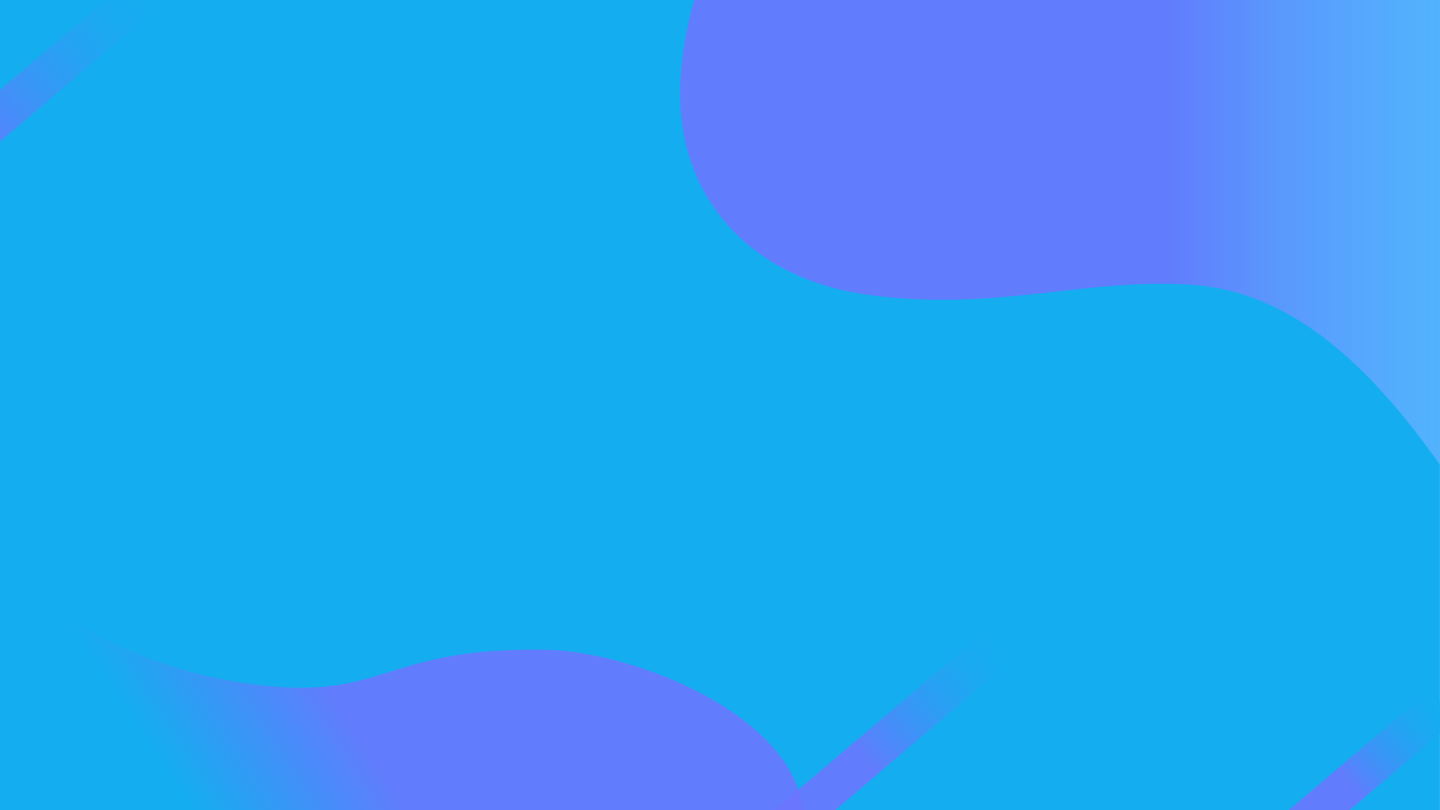
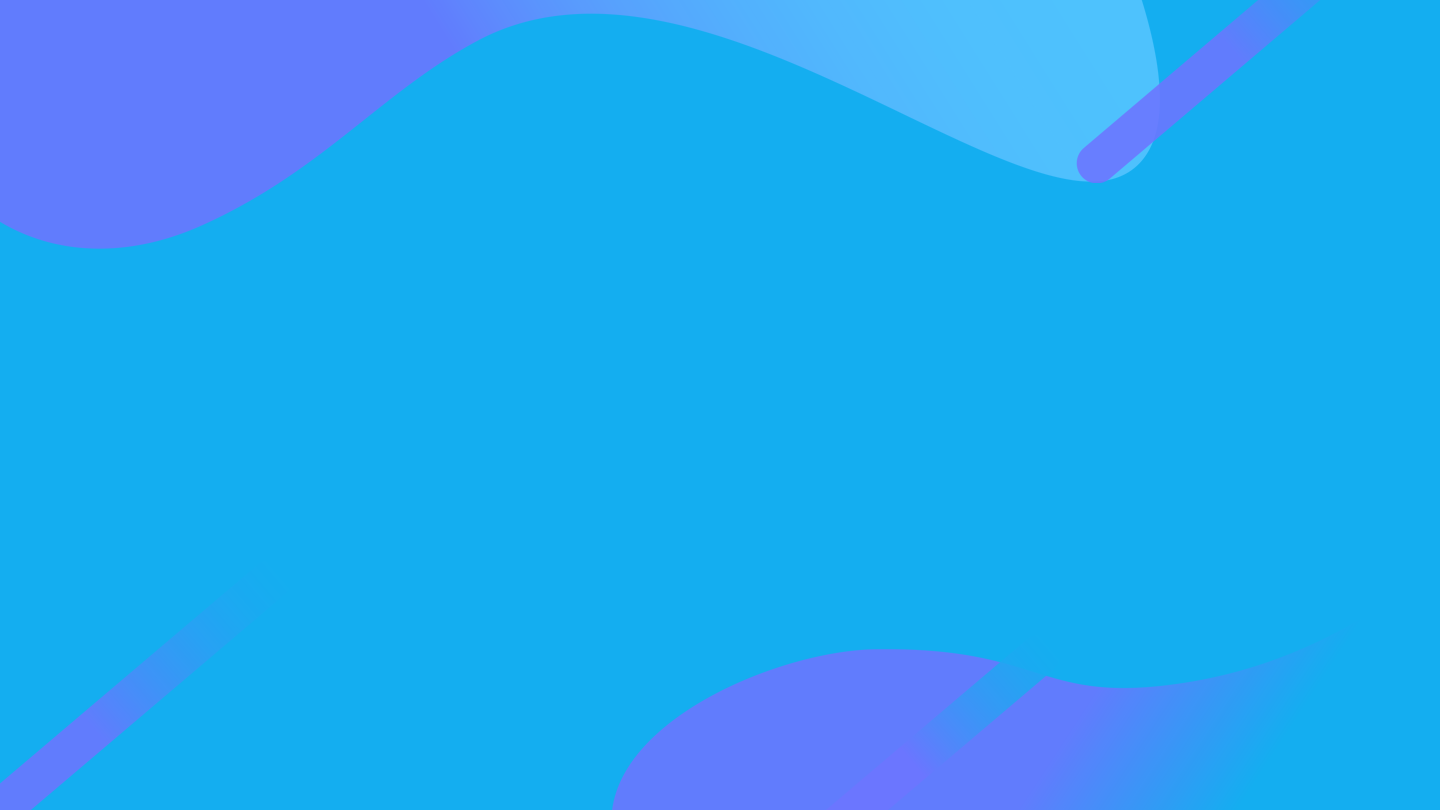
Revision impactaim page

diff --git a/assets/impactaim/css/style.css b/assets/impactaim/css/style.css
@@ -1,54 +1,58 @@
 html,
-        body {
-            width: 100%;
-            height: 100%;
-        }
+body {
+    width: 100%;
+    height: 100%;
+}
 
-        .spacing-1-5 {
-            letter-spacing: 1.5px;
-        }
+section, .custom-content {
+    min-height: 100vh;
+}
 
-        .spacing-5 {
-            letter-spacing: 5px;
-        }
+.spacing-1-5 {
+    letter-spacing: 1.5px;
+}
 
-        .small-heading {
-            font-weight: 300
-        }
+.spacing-5 {
+    letter-spacing: 5px;
+}
 
-        .custom-header {
-            max-width: 400px;
-            background-color: #fff;
-            color: #14aef0;
-            text-align: center;
-            padding-bottom: 10px;
-            border-radius: 10px;
-        }
+.small-heading {
+    font-weight: 300;
+}
 
-        .text-white {
-            color: #fff;
-        }
+.custom-header {
+    max-width: 400px;
+    background-color: #fff;
+    color: #14aef0;
+    text-align: center;
+    padding-bottom: 10px;
+    border-radius: 10px;
+}
 
-        .text-gray {
-            color: #ddd;
-        }
+.text-white {
+    color: #fff;
+}
 
-        .uk-button.button-back {
-            color: #ddd;
-        }
+.text-gray {
+    color: #ddd;
+}
 
-        .uk-button.button-back:hover {
-            color: #fff;
-        }
+.uk-button.button-back {
+    color: #ddd;
+}
 
-        @media(max-device-width: 480px) {
+.uk-button.button-back:hover {
+    color: #fff;
+}
 
-            html,
-            body {
-                height: auto;
-            }
+@media(max-device-width: 480px) {
 
-            section:first-of-type {
-                height: 50vh;
-            }
-        }
+    html,
+    body {
+        height: auto;
+    }
+
+    section:first-of-type, .custom-content{
+        height: 50vh;
+    }
+}

diff --git a/application/views/impactaim.php b/application/views/impactaim.php
@@ -16,92 +16,104 @@
     <div class="uk-position-fixed uk-position-z-index uk-position-top-left">
         <a href="<?= base_url('/'); ?>" class="uk-button button-back"><i class="fas fa-chevron-left"></i> back</a>
     </div>
-    <section class="uk-height-1-1 uk-position-relative uk-background-cover uk-flex uk-flex-column uk-flex-center uk-flex-middle" style="background-image: url(<?= base_url('assets/impactaim/showcase_1.png'); ?>)">
+    <section class="uk-position-relative uk-background-cover uk-flex uk-flex-column uk-flex-center uk-flex-middle" style="background-image: url(<?= base_url('assets/impactaim/showcase_1.png'); ?>)">
         <h3 class="uk-text-center uk-margin-remove text-gray small-heading spacing-5">IMPACT AIM INDONESIA IS HAVING</h3>
         <h1 class="uk-text-bold uk-text-center uk-text-truncate uk-margin-remove text-white" style="font-size: 7rem">CALL FOR<br>APPLICATIONS
         </h1>
         <div class="uk-position-bottom-right uk-margin-medium-right uk-margin-medium-bottom small-heading spacing-5">
             <h3 class="uk-text-right uk-margin-remove text-gray">APPLY TO</h3>
-            <h3 class="uk-text-right uk-margin-remove text-gray">DEADLINE: XX JULY 2019</h3>
+            <h3 class="uk-text-right uk-margin-remove text-gray">DEADLINE: 24 JULY 2019</h3>
         </div>
     </section>
-    <section class="uk-height-1-1 uk-background-cover uk-padding" style="background-image: url(<?= base_url('assets/impactaim/showcase_2.png'); ?>)">
-        <h1 class="uk-text-bold uk-text-truncate text-white" style="font-size: 3.5rem" uk-scrollspy="cls: uk-animation-scale-up; repeat: true">Why ImpactAim<br>Indonesia?</h1>
-        <div class="uk-grid-large uk-child-width-1-2@m" uk-grid uk-scrollspy="cls: uk-animation-fade; target: > div; delay: 300; repeat: true">
-            <div>
-                <h3 class="uk-margin-remove text-white small-heading">A joint initiative from UNDP Indonesia, 500 Startups and Bukalapak to support entrepreneurs to scale their impact, ImpactAim launched in Indonesia after a successful pilot in Armenia.</h3>
-                <h3 class="uk-margin-remove text-white small-heading">ImpactAim focus to empower SDG-aligned ventures, through guidance on impact measurement, management, reporting and business acceleration. Selected ventures will received tailored mentorship and impact curriculum, that enables them to leverage impact network better, to accelerate their growth. By joining forces with Silicon Valley based VC and top e-commerce unicorn in Indonesia, this program aim to improve’s life through business.</h3>
-            </div>
-            <div class="uk-flex uk-flex-center uk-flex-middle">
-                <div class="uk-width-medium uk-height-medium uk-background-contain" style="background-image: url(<?= base_url('assets/impactaim/logo_2_1.png'); ?>)"></div>
-            </div>
-        </div>
-    </section>
-    <section class="uk-height-1-1 uk-background-cover uk-grid-collapse uk-child-width-1-2@m uk-padding" style="background-image: url(<?= base_url('assets/impactaim/showcase_3.png'); ?>)" uk-grid>
-        <div class="uk-flex uk-flex-center uk-flex-column uk-margin-top uk-margin-bottom" uk-scrollspy="cls: uk-animation-scale-up; repeat: true">
-            <h1 class="uk-text-bold uk-text-truncate uk-margin-remove-vertical uk-margin-large-left text-white" style="font-size: 5rem">SELECTION</h1>
-            <h2 class="uk-text-bold uk-text-truncate uk-margin-remove-vertical uk-margin-large-left text-white" style="font-size: 3rem">CRITERIA</h2>
-        </div>
-        <div class="uk-flex uk-flex-around uk-flex-column uk-margin-top uk-margin-bottom" uk-scrollspy="cls: uk-animation-slide-bottom; target: > div; delay: 300; repeat: true">
-            <div class="uk-grid-collapse uk-child-width-expand@m" uk-grid>
-                <div class="uk-width-auto@m uk-flex uk-flex-center">
-                    <img src="<?= base_url('assets/impactaim/logo_3_1.svg'); ?>" width="100" height="100" uk-svg>
+    <section class="uk-background-cover" style="background-image: url(<?= base_url('assets/impactaim/showcase_2.png'); ?>)">
+        <div class="uk-padding" uk-scrollspy="cls: uk-animation-fade; target: > *; delay: 300; repeat: true">
+            <h1 class="uk-flex uk-flex-center uk-text-bold custom-header" style="font-size: 2.5rem">What's ImpactAim?</h1>
+            <h3 class="uk-text-center text-white small-heading spacing-1-5" style="width: 70%; margin: auto">an accelerator that aim to help Indonesia in achieving Sustainable Development Goals (SDG) by amplifying positive impact of local startups.</h3>
+            <div class="uk-flex uk-flex-center uk-grid-collapse uk-child-width-1-3@m" uk-grid>
+                <div class="uk-flex uk-flex-column uk-flex-middle uk-padding-small">
+                    <img src="<?= base_url('assets/impactaim/logo_5_1.svg'); ?>" width="200" height="200" uk-svg>
+                    <h3 class="uk-width-medium uk-text-center text-white small-heading spacing-1-5">business development guidance</h3>
                 </div>
-                <h3 class="uk-flex uk-flex-middle uk-padding-small text-white small-heading">Address social and environmental problems with proven and scalable business model</h3>
-            </div>
-            <div class="uk-grid-collapse uk-child-width-expand@m" uk-grid>
-                <div class="uk-width-auto@m uk-flex uk-flex-center">
-                    <img class="uk-margin-medium-left" src="<?= base_url('assets/impactaim/logo_3_2.svg'); ?>" width="100" height="100" uk-svg>
+                <div class="uk-flex uk-flex-column uk-flex-middle uk-padding-small">
+                    <img src="<?= base_url('assets/impactaim/logo_5_2.svg'); ?>" width="200" height="200" uk-svg>
+                    <h3 class="uk-width-medium uk-text-center text-white small-heading spacing-1-5">global access facilitation through UNDP channels</h3>
                 </div>
-                <h3 class="uk-flex uk-flex-middle uk-padding-small text-white small-heading">Empower people and achieve multiplier effect</h3>
-            </div>
-            <div class="uk-grid-collapse uk-child-width-expand@m" uk-grid>
-                <div class="uk-width-auto@m uk-flex uk-flex-center">
-                    <img class="uk-margin-medium-left" src="<?= base_url('assets/impactaim/logo_3_3.svg'); ?>" width="100" height="100" uk-svg>
+                <div class="uk-flex uk-flex-column uk-flex-middle uk-padding-small">
+                    <img src="<?= base_url('assets/impactaim/logo_5_3.svg'); ?>" width="200" height="200" uk-svg>
+                    <h3 class="uk-width-medium uk-text-center text-white small-heading spacing-1-5">funding access facilitation</h3>
                 </div>
-                <h3 class="uk-flex uk-flex-middle uk-padding-small text-white small-heading">Have identifiable beneficiaries</h3>
             </div>
-            <div class="uk-grid-collapse uk-child-width-expand@m" uk-grid>
-                <div class="uk-width-auto@m uk-flex uk-flex-center">
-                    <img src="<?= base_url('assets/impactaim/logo_3_4.svg'); ?>" width="100" height="100" uk-svg>
-                </div>
-                <h3 class="uk-flex uk-flex-middle uk-padding-small text-white small-heading">Have formed teams, proven economic feasibility, prove market, and emerging market base</h3>
+            <div class="uk-flex uk-flex-column uk-flex-middle uk-margin-top">
+                <h3 class="uk-text-center text-white small-heading spacing-1-5"> By joining ImpactAim, startups can gain access to capacity building in measuring impact,
+                    Impact growth, impact reporting to fundraise and expanding market.</h3>
             </div>
         </div>
     </section>
-    <section class="uk-position-relative uk-height-1-1 uk-background-cover uk-padding" style="background-image: url(<?= base_url('assets/impactaim/showcase_4.png'); ?>)" uk-scrollspy="cls: uk-animation-fade; target: > *; delay: 300; repeat: true">
-        <h1 class="uk-flex uk-flex-center uk-text-bold custom-header spacing-1-5" style="font-size: 3rem">Did you know?</h1>
-        <h3 class="uk-text-center text-white small-heading spacing-1-5 custom-title" style="width: 45%; margin: auto">micro and small medium enterprise are a key driving force of Indonesia's economy</h3>
-        <div class="uk-flex uk-flex-center uk-grid-collapse uk-child-width-auto@m" uk-grid>
-            <div class="uk-width-large uk-flex uk-flex-column uk-flex-middle uk-padding-small">
-                <img src="<?= base_url('assets/impactaim/logo_4_1.svg'); ?>" width="200" height="200" uk-svg>
-                <h3 class="uk-text-center text-white small-heading spacing-1-5">of all Indonesia businesses are micro and small medium enterprise</h3>
+    <section class="uk-background-cover" style="background-image: url(<?= base_url('assets/impactaim/showcase_3.png'); ?>)">
+        <div class="uk-padding">
+            <h1 class="uk-text-bold uk-text-truncate text-white" style="font-size: 3.5rem" uk-scrollspy="cls: uk-animation-scale-up; repeat: true">Why ImpactAim<br>Indonesia?</h1>
+            <div class="uk-grid-large uk-child-width-1-2@m" uk-grid uk-scrollspy="cls: uk-animation-fade; target: > div; delay: 300; repeat: true">
+                <div>
+                    <h3 class="uk-margin-remove text-white small-heading">A joint initiative from UNDP Indonesia, 500 Startups and Bukalapak to support entrepreneurs to scale their impact, ImpactAim launched in Indonesia after a successful pilot in Armenia.</h3>
+                    <h3 class="uk-margin-remove text-white small-heading">ImpactAim focus to empower SDG-aligned ventures, through guidance on impact measurement, management, reporting and business acceleration. Selected ventures will received tailored mentorship and impact curriculum, that enables them to leverage impact network better, to accelerate their growth. By joining forces with Silicon Valley based VC and top e-commerce unicorn in Indonesia, this program aim to improve’s life through business.</h3>
+                </div>
+                <div class="uk-flex uk-flex-center uk-flex-middle">
+                    <div class="uk-width-medium uk-height-medium uk-background-contain" style="background-image: url(<?= base_url('assets/impactaim/logo_2_1.png'); ?>)"></div>
+                </div>
             </div>
-            <div class="uk-width-large uk-flex uk-flex-column uk-flex-middle uk-padding-small">
-                <img src="<?= base_url('assets/impactaim/logo_4_2.svg'); ?>" width="200" height="200" uk-svg>
-                <h3 class="uk-text-center text-white small-heading spacing-1-5">of GDP are contribution of micro and small medium enterprise</h3>
-            </div>
-        </div>
-        <div class="uk-position-bottom-right uk-margin-small-right uk-margin-small-bottom">
-            <h3 class="text-white uk-margin-remove">source:</h3>
-            <h3 class="text-white small-heading uk-margin-remove">Asian Development Outlook</h3>
         </div>
     </section>
-    <section class="uk-height-1-1 uk-background-cover uk-padding" style="background-image: url(<?= base_url('assets/impactaim/showcase_5.png'); ?>)" uk-scrollspy="cls: uk-animation-fade; target: > *; delay: 300; repeat: true">
-        <h1 class="uk-flex uk-flex-center uk-text-bold custom-header" style="font-size: 2.5rem">What's ImpactAim?</h1>
-        <h3 class="uk-text-center text-white small-heading spacing-1-5" style="width: 70%; margin: auto">an accelerator that aim to help Indonesia in achieving Sustainable Development Goals (SDG) by amplifying positive impact of local startups.</h3>
-        <div class="uk-flex uk-flex-center uk-grid-collapse uk-child-width-1-3@m" uk-grid>
-            <div class="uk-flex uk-flex-column uk-flex-middle uk-padding-small">
-                <img src="<?= base_url('assets/impactaim/logo_5_1.svg'); ?>" width="200" height="200" uk-svg>
-                <h3 class="uk-width-medium uk-text-center text-white small-heading spacing-1-5">business development guidance</h3>
+    <section class="uk-position-relative uk-background-cover" style="background-image: url(<?= base_url('assets/impactaim/showcase_4.png'); ?>)">
+        <div class="uk-padding" uk-scrollspy="cls: uk-animation-fade; target: > *; delay: 300; repeat: true">
+            <h1 class="uk-flex uk-flex-center uk-text-bold custom-header spacing-1-5" style="font-size: 3rem">Did you know?</h1>
+            <h3 class="uk-text-center text-white small-heading spacing-1-5 custom-title" style="width: 45%; margin: auto">micro and small medium enterprise are a key driving force of Indonesia's economy</h3>
+            <div class="uk-flex uk-flex-center uk-grid-collapse uk-child-width-auto@m" uk-grid>
+                <div class="uk-width-large uk-flex uk-flex-column uk-flex-middle uk-padding-small">
+                    <img src="<?= base_url('assets/impactaim/logo_4_1.svg'); ?>" width="200" height="200" uk-svg>
+                    <h3 class="uk-text-center text-white small-heading spacing-1-5">of all Indonesia businesses are micro and small medium enterprise</h3>
+                </div>
+                <div class="uk-width-large uk-flex uk-flex-column uk-flex-middle uk-padding-small">
+                    <img src="<?= base_url('assets/impactaim/logo_4_2.svg'); ?>" width="200" height="200" uk-svg>
+                    <h3 class="uk-text-center text-white small-heading spacing-1-5">of GDP are contribution of micro and small medium enterprise</h3>
+                </div>
             </div>
-            <div class="uk-flex uk-flex-column uk-flex-middle uk-padding-small">
-                <img src="<?= base_url('assets/impactaim/logo_5_2.svg'); ?>" width="200" height="200" uk-svg>
-                <h3 class="uk-width-medium uk-text-center text-white small-heading spacing-1-5">global access facilitation through UNDP channels</h3>
+            <div class="uk-position-bottom-right uk-margin-small-right uk-margin-small-bottom">
+                <h3 class="text-white uk-margin-remove">source:</h3>
+                <h3 class="text-white small-heading uk-margin-remove">Asian Development Outlook</h3>
             </div>
-            <div class="uk-flex uk-flex-column uk-flex-middle uk-padding-small">
-                <img src="<?= base_url('assets/impactaim/logo_5_3.svg'); ?>" width="200" height="200" uk-svg>
-                <h3 class="uk-width-medium uk-text-center text-white small-heading spacing-1-5">funding access facilitation</h3>
+        </div>
+    </section>
+    <section class="uk-background-cover" style="background-image: url(<?= base_url('assets/impactaim/showcase_5.png'); ?>)">
+        <div class="uk-grid-collapse uk-child-width-1-2@m custom-content" uk-grid>
+            <div class="uk-flex uk-flex-center uk-flex-column" uk-scrollspy="cls: uk-animation-scale-up; repeat: true">
+                <h1 class="uk-text-bold uk-text-truncate uk-margin-remove-vertical uk-margin-large-left text-white" style="font-size: 5rem">SELECTION</h1>
+                <h2 class="uk-text-bold uk-text-truncate uk-margin-remove-vertical uk-margin-large-left text-white" style="font-size: 3rem">CRITERIA</h2>
+            </div>
+            <div class="uk-flex uk-flex-around uk-flex-column" uk-scrollspy="cls: uk-animation-slide-bottom; target: > div; delay: 300; repeat: true">
+                <div class="uk-grid-collapse uk-child-width-expand@m" uk-grid>
+                    <div class="uk-width-auto@m uk-flex uk-flex-center">
+                        <img src="<?= base_url('assets/impactaim/logo_3_1.svg'); ?>" width="100" height="100" uk-svg>
+                    </div>
+                    <h3 class="uk-flex uk-flex-middle uk-padding-small text-white small-heading">Address social and environmental problems with proven and scalable business model</h3>
+                </div>
+                <div class="uk-grid-collapse uk-child-width-expand@m" uk-grid>
+                    <div class="uk-width-auto@m uk-flex uk-flex-center">
+                        <img class="uk-margin-medium-left" src="<?= base_url('assets/impactaim/logo_3_2.svg'); ?>" width="100" height="100" uk-svg>
+                    </div>
+                    <h3 class="uk-flex uk-flex-middle uk-padding-small text-white small-heading">Empower people and achieve multiplier effect</h3>
+                </div>
+                <div class="uk-grid-collapse uk-child-width-expand@m" uk-grid>
+                    <div class="uk-width-auto@m uk-flex uk-flex-center">
+                        <img class="uk-margin-medium-left" src="<?= base_url('assets/impactaim/logo_3_3.svg'); ?>" width="100" height="100" uk-svg>
+                    </div>
+                    <h3 class="uk-flex uk-flex-middle uk-padding-small text-white small-heading">Have identifiable beneficiaries</h3>
+                </div>
+                <div class="uk-grid-collapse uk-child-width-expand@m" uk-grid>
+                    <div class="uk-width-auto@m uk-flex uk-flex-center">
+                        <img src="<?= base_url('assets/impactaim/logo_3_4.svg'); ?>" width="100" height="100" uk-svg>
+                    </div>
+                    <h3 class="uk-flex uk-flex-middle uk-padding-small text-white small-heading">Have formed teams, proven economic feasibility, prove market, and emerging market base</h3>
+                </div>
             </div>
         </div>
     </section>

diff --git a/application/controllers/Welcome.php b/application/controllers/Welcome.php
@@ -10,6 +10,7 @@ class Welcome extends Frontend_Controller
 
 	public function index()
 	{
+		$this->data['meta_title'] = ucwords($this->lang->line('home'));
 		$this->data['teams'] = $this->Team_m->get_with_paginate(1, 12, TRUE);
 		$this->data['blogs'] = $this->Blog_m->get_with_paginate(1, 12, TRUE);
 		$this->data['books'] = $this->Book_m->get_with_paginate(1, 5, TRUE);
